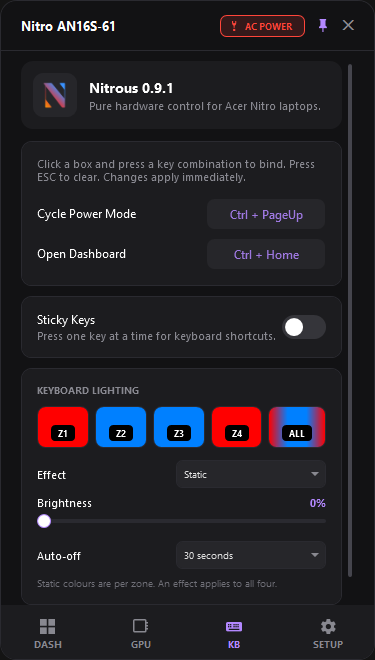
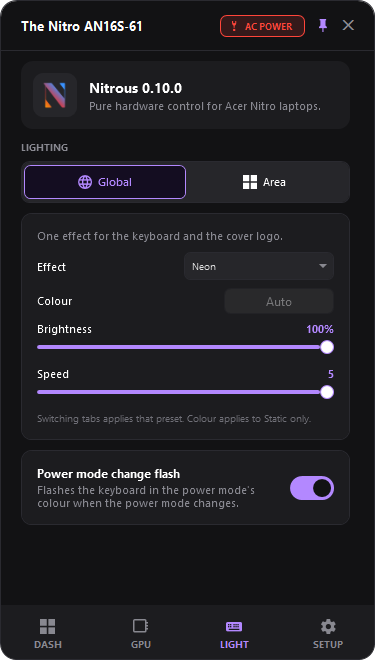
docs: show the 0.10.0 LIGHT page and Setup in screenshots and copy
Re-capture the four site screenshots at 375x660 with the violet accent, at
Brightness 100 so the LIGHT page reads properly.

The third tab is Lighting now, not Keyboard: rename it in the README alt text,
the site tab list, the feature card and its alt text, and describe Global and
Area, the cover logo, the power-mode flash and the fact that auto-off moved to
Setup. The screenshot captions follow what is actually on screen.

Also fix stale page names and versions: hotkeys are rebound in Setup, not the
"KB page"; Diagnostics lives under Setup; the site's static version fallbacks
and JSON-LD said 0.9.0, and the release badge said "Early access" although
0.10.0 shipped as a normal release.

diff --git a/docs/index.html b/docs/index.html
@@ -73,12 +73,12 @@
           "@type": "SoftwareApplication",
           "@id": "https://jeremyaliparo.github.io/nitrous/#app",
           "name": "Nitrous",
-          "description": "Portable, open-source hardware control for Acer Nitro laptops: fan curves, firmware power modes, GPU clock offsets, refresh rate, keyboard lighting and diagnostics.",
+          "description": "Portable, open-source hardware control for Acer Nitro laptops: fan curves, firmware power modes, GPU clock offsets, refresh rate, keyboard and lid lighting, and diagnostics.",
           "url": "https://jeremyaliparo.github.io/nitrous/",
           "downloadUrl": "https://github.com/jeremyaliparo/nitrous/releases/latest/download/Nitrous.exe",
           "applicationCategory": "UtilitiesApplication",
           "operatingSystem": "Windows 10, Windows 11",
-          "softwareVersion": "0.9.0",
+          "softwareVersion": "0.10.0",
           "license": "https://github.com/jeremyaliparo/nitrous/blob/master/LICENSE",
           "softwareHelp": "https://github.com/jeremyaliparo/nitrous#readme",
           "releaseNotes": "https://github.com/jeremyaliparo/nitrous/blob/master/CHANGELOG.md",
@@ -216,7 +216,7 @@
       <a class="brand" href="#top">
         <svg class="brand-mark" viewBox="0 0 64 64" aria-hidden="true"><path d="M8 8h12l24 34V8h12v48H44L20 22v34H8z" fill="url(#nitroGrad)"/></svg>
         <span class="brand-name">Nitrous</span>
-        <span class="brand-tag">v<span data-gh-version>0.9.0</span></span>
+        <span class="brand-tag">v<span data-gh-version>0.10.0</span></span>
       </a>
 
       <nav class="nav" id="primary-nav" aria-label="Primary">
@@ -273,7 +273,7 @@
           <div class="hero-cta reveal delay-3">
             <a class="btn btn-primary btn-lg" href="https://github.com/jeremyaliparo/nitrous/releases/latest/download/Nitrous.exe">
               <svg class="icon" aria-hidden="true"><use href="#i-windows"/></svg>
-              Download Nitrous <span class="btn-version" data-gh-version>0.9.0</span>
+              Download Nitrous <span class="btn-version" data-gh-version>0.10.0</span>
             </a>
             <a class="btn btn-ghost btn-lg" href="https://github.com/jeremyaliparo/nitrous" target="_blank" rel="noopener">
               <svg class="icon" aria-hidden="true"><use href="#i-github"/></svg>
@@ -479,12 +479,14 @@
           <article class="feature reveal">
             <div class="feature-top">
               <span class="feature-icon"><svg class="icon" aria-hidden="true"><use href="#i-keyboard"/></svg></span>
-              <span class="feature-kicker">Keyboard</span>
+              <span class="feature-kicker">Lighting</span>
             </div>
-            <h3>Four zones. One click.</h3>
+            <h3>Four zones, and the lid.</h3>
             <p>
-              Per-zone RGB with a one-click all-zones colour, effects, brightness and an idle
-              auto-off timer. Single-colour keyboards keep brightness control.
+              Global and Area are two presets on one page: four per-zone colours or one effect
+              across all zones, brightness and speed, plus the lid's cover logo with its own
+              Static, Breathing and Neon effects. The keyboard acknowledges a power-mode change
+              in the mode's colour, and auto-off lives next to the hotkeys in Setup.
             </p>
             <div class="feature-viz viz-zones" aria-hidden="true">
               <i></i><i></i><i></i><i></i>
@@ -563,15 +565,15 @@
             <button class="screen-tab" type="button" id="tab-keyboard" role="tab" aria-selected="false" aria-controls="panel-keyboard" tabindex="-1">
               <span class="tab-index">03</span>
               <span class="tab-body">
-                <span class="tab-title">Keyboard</span>
-                <span class="tab-desc">Global hotkeys, per-zone colours, effects and an idle auto-off timer.</span>
+                <span class="tab-title">Lighting</span>
+                <span class="tab-desc">Global and Area presets, per-zone colours, effects and the lid's cover logo.</span>
               </span>
             </button>
             <button class="screen-tab" type="button" id="tab-settings" role="tab" aria-selected="false" aria-controls="panel-settings" tabindex="-1">
               <span class="tab-index">04</span>
               <span class="tab-body">
                 <span class="tab-title">Setup</span>
-                <span class="tab-desc">CPU limits, boost modes, battery charge limit, USB charging and AC/DC automation.</span>
+                <span class="tab-desc">CPU limits, boost modes, battery charge limit, USB charging, hotkeys and appearance.</span>
               </span>
             </button>
           </div>
@@ -596,9 +598,9 @@
             <div class="shot-panel" id="panel-keyboard" role="tabpanel" aria-labelledby="tab-keyboard" hidden>
               <figure class="shot">
                 <div class="app-frame app-frame-sm">
-                  <img src="assets/keyboard.png" width="375" height="660" alt="Nitrous keyboard tab: hotkey bindings including Ctrl + Home, Sticky Keys, four RGB lighting zones, effect, brightness and auto-off timer" loading="lazy" decoding="async">
+                  <img src="assets/keyboard.png" width="375" height="660" alt="Nitrous Lighting tab: Global and Area presets, with effect, colour, brightness and speed, and the power-mode change flash toggle" loading="lazy" decoding="async">
                 </div>
-                <figcaption>Keyboard · four-zone RGB</figcaption>
+                <figcaption>Lighting · Global preset</figcaption>
               </figure>
             </div>
             <div class="shot-panel" id="panel-settings" role="tabpanel" aria-labelledby="tab-settings" hidden>
@@ -609,7 +611,7 @@
                 <figcaption>Setup · power and battery</figcaption>
               </figure>
             </div>
-            <p class="shot-hint"><span class="pulse-dot" aria-hidden="true"></span>Live app · v<span data-gh-version>0.9.0</span></p>
+            <p class="shot-hint"><span class="pulse-dot" aria-hidden="true"></span>Live app · v<span data-gh-version>0.10.0</span></p>
           </div>
         </div>
       </div>
@@ -700,7 +702,7 @@
             <p class="model-code">AN16S-61</p>
             <ul class="model-tags">
               <li>EC HID + WMI</li>
-              <li>4-zone RGB</li>
+              <li>4-zone RGB + logo</li>
               <li>115 W Turbo</li>
               <li>Custom curves</li>
             </ul>
@@ -730,7 +732,7 @@
             <p>
               If your Nitro follows the same Acer protocol, the controls your firmware exposes
               light up automatically. Greyed-out controls explain themselves on hover.
-              Run <strong>Settings → Diagnostics → EC PROBE</strong> and open an issue if
+              Run <strong>Setup → Diagnostics → EC PROBE</strong> and open an issue if
               something is missing.
             </p>
             <a class="text-link" href="https://github.com/jeremyaliparo/nitrous/issues" target="_blank" rel="noopener">
@@ -793,7 +795,7 @@
               <span class="step-num">3</span>
               <div class="step-body">
                 <h3>Run it from anywhere</h3>
-                <p>Move the <code>.exe</code> to a permanent folder and launch it. Nitrous lives in the tray — click the icon or press <kbd>Ctrl</kbd> + <kbd>Home</kbd> to summon the dashboard. Hotkeys are rebindable on the KB page.</p>
+                <p>Move the <code>.exe</code> to a permanent folder and launch it. Nitrous lives in the tray — click the icon or press <kbd>Ctrl</kbd> + <kbd>Home</kbd> to summon the dashboard. Hotkeys are rebindable on the Setup page.</p>
                 <p class="fineprint">Disabling Acer services is strictly opt-in. If you do, <strong>Setup → Acer Background Services → RESTORE</strong> brings back the exact previous state.</p>
               </div>
             </div>
@@ -803,10 +805,10 @@
             <div class="release-glow" aria-hidden="true"></div>
             <div class="release-head">
               <span class="eyebrow">Latest release</span>
-              <span class="release-badge">Early access</span>
+              <span class="release-badge">Stable</span>
             </div>
-            <p class="release-version">v<span data-gh-version>0.9.0</span></p>
-            <p class="release-date">Released <span data-gh-date>Nov 1, 2026</span></p>
+            <p class="release-version">v<span data-gh-version>0.10.0</span></p>
+            <p class="release-date">Released <span data-gh-date>Nov 8, 2026</span></p>
 
             <dl class="release-rows">
               <div><dt>Platform</dt><dd>Windows 10 / 11 x64</dd></div>
@@ -890,8 +892,10 @@
             <div class="faq-body">
               <p>Nitrous disables what your firmware doesn't answer instead of failing silently. Hover the control to see the exact reason.</p>
               <ul>
-                <li><strong>Keyboard zones</strong> need a 4-zone RGB keyboard; single-colour models keep brightness only.</li>
-                <li><strong>Keyboard auto-off</strong> uses a firmware timeout command, so models with no embedded-controller interface keep it as well.</li>
+                <li><strong>Keyboard zones</strong> need a 4-zone RGB keyboard; single-colour models get one Colour chip instead.</li>
+                <li><strong>The LIGHT tab</strong> is absent on models with no reachable lighting controller. The Fn keys may still work, but no user-mode interface exposes that.</li>
+                <li><strong>The cover logo</strong> is confirmed once with a test colour; if it didn't light up, the controls are replaced by an explanation and nothing more is written.</li>
+                <li><strong>Keyboard auto-off</strong> now lives in <strong>Setup → KEYBOARD</strong> and still uses a firmware timeout command, so it needs the embedded-controller interface.</li>
                 <li><strong>USB charging while off</strong> needs an Acer WMI class that some BIOS versions implement only partially.</li>
                 <li><strong>LCD overdrive</strong> is a panel property, so it is hidden rather than greyed where unsupported.</li>
               </ul>
@@ -913,7 +917,7 @@
                 <li><code>%LOCALAPPDATA%\Nitrous\diagnostics</code> — exported ZIP bundles.</li>
                 <li><code>HKCU\Software\Nitrous</code> — preferences plus CPU power and boost baselines.</li>
               </ul>
-              <p>Export a bundle from <strong>Settings → Diagnostics → Export Diagnostics</strong>. Nothing is uploaded automatically: usernames, paths, SIDs, emails and IP/MAC addresses are scrubbed, and serial numbers and system UUIDs are never collected.</p>
+              <p>Export a bundle from <strong>Setup → Diagnostics → Export Diagnostics</strong>. Nothing is uploaded automatically: usernames, paths, SIDs, emails and IP/MAC addresses are scrubbed, and serial numbers and system UUIDs are never collected.</p>
             </div>
           </details>
         </div>
@@ -949,7 +953,7 @@
               <svg class="icon" aria-hidden="true"><use href="#i-external"/></svg>
             </a>
           </div>
-          <p class="cta-foot">v<span data-gh-version>0.9.0</span> · MIT · Windows 10/11 x64 · .NET 10 Desktop Runtime</p>
+          <p class="cta-foot">v<span data-gh-version>0.10.0</span> · MIT · Windows 10/11 x64 · .NET 10 Desktop Runtime</p>
         </div>
       </div>
     </section>
@@ -974,7 +978,7 @@
           </div>
           <p class="footer-status">
             <span class="pulse-dot" aria-hidden="true"></span>
-            Actively maintained · v<span data-gh-version>0.9.0</span> · <span data-gh-date>Nov 1, 2026</span>
+            Actively maintained · v<span data-gh-version>0.10.0</span> · <span data-gh-date>Nov 8, 2026</span>
           </p>
         </div>
 
